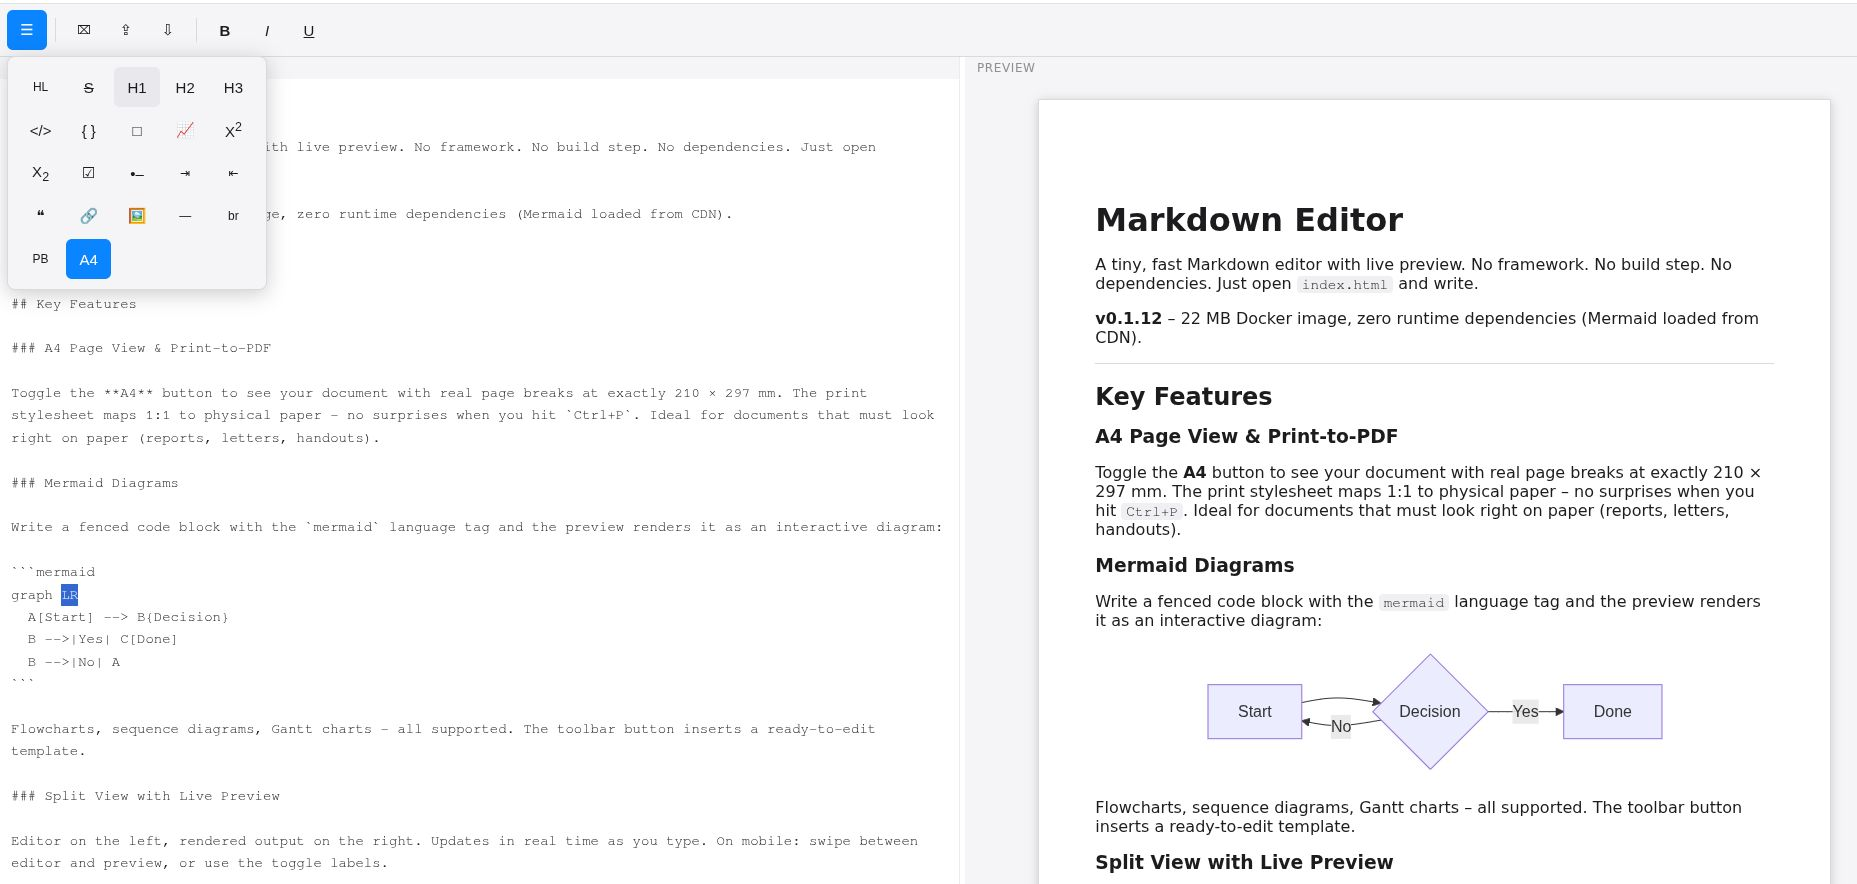
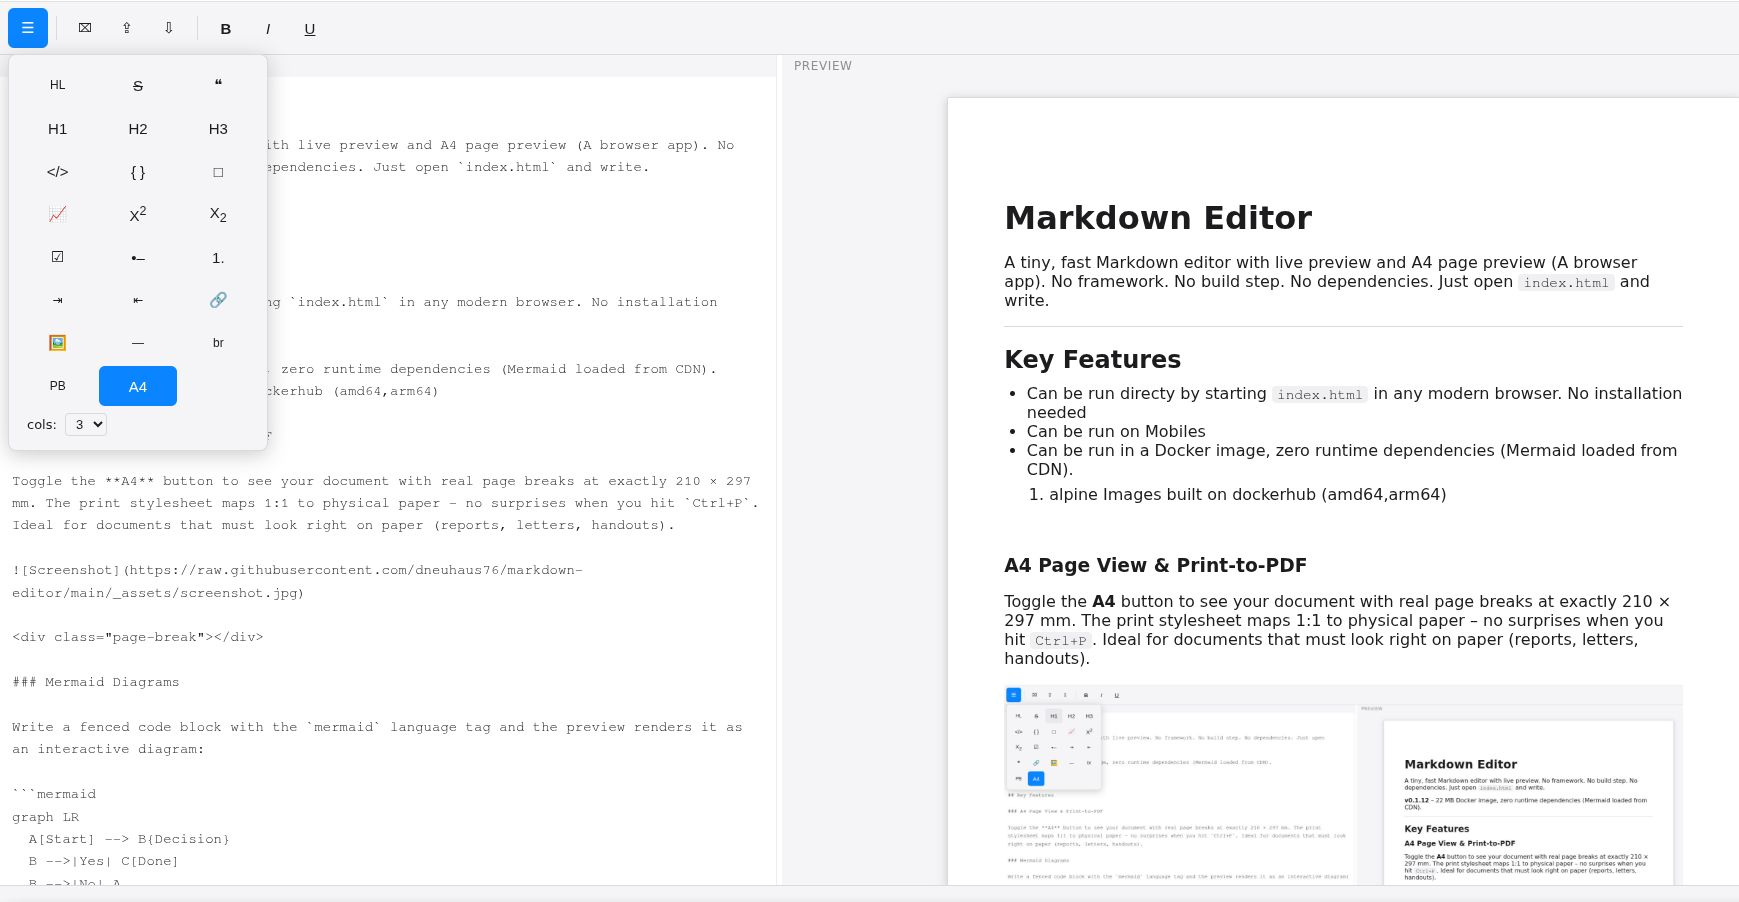
feat: add ol button + configurable toolbar columns, bump to 0.1.14

diff --git a/index.html b/index.html
@@ -24,26 +24,37 @@
   <div class="toolbar-panel" id="toolbar-panel" hidden>
     <button data-action="highlight" title="Highlight (==text==)" style="font-size:12px;">HL</button>
     <button data-action="strike" title="Strikethrough"><s>S</s></button>
+    <button data-action="quote" title="Quote">&#10077;</button>
     <button data-action="h1" title="Heading 1">H1</button>
     <button data-action="h2" title="Heading 2">H2</button>
     <button data-action="h3" title="Heading 3">H3</button>
     <button data-action="code" title="Inline code">&lt;/&gt;</button>
     <button data-action="codeblock" title="Code block">{ }</button>
-    <button data-action="table" title="Table">&#9633;</button>
-    <button data-action="mermaid" title="Mermaid diagram">&#128200;</button>
+    <button data-action="table" title="Table (template)">&#9633;</button>
+    <button data-action="mermaid" title="Mermaid diagram (template)">&#128200;</button>
     <button data-action="sup" title="Superscript (X^2^)">X<sup>2</sup></button>
     <button data-action="sub" title="Subscript (H~2~O)">X<sub>2</sub></button>
     <button data-action="task" title="Task list (- [ ] task)">&#9745;</button>
-    <button data-action="ul" title="List">&#8226;&ndash;</button>
+    <button data-action="ul" title="List (ul)">&#8226;&ndash;</button>
+    <button data-action="ol" title="List (ol)">1.</button>
     <button data-action="indent" title="Indent" style="font-size:12px;">&#8677;</button>
     <button data-action="outdent" title="Outdent" style="font-size:12px;">&#8676;</button>
-    <button data-action="quote" title="Quote">&#10077;</button>
     <button data-action="link" title="Link [text](url)">&#128279;</button>
     <button data-action="image" title="Image ![alt](url)">&#128444;</button>
     <button data-action="hr" title="Horizontal rule (---)" style="font-size:12px;">&#8212;</button>
     <button data-action="br" title="Line break (br)" style="font-size:12px;">br</button>
     <button data-action="pagebreak" title="Page break (new page when printing)" style="font-size:12px;">PB</button>
     <button id="btn-a4" title="A4 page view (show page end)">A4</button>
+    <label class="cols-config">
+      <span>cols:</span>
+      <select id="cols-select">
+        <option value="3">3</option>
+        <option value="4">4</option>
+        <option value="5" selected>5</option>
+        <option value="6">6</option>
+        <option value="7">7</option>
+      </select>
+    </label>
   </div>
   </header>
 

diff --git a/js/ui.js b/js/ui.js
@@ -71,6 +71,7 @@
       h2:        () => prefixLines('## '),
       h3:        () => prefixLines('### '),
       ul:        () => prefixLines('- '),
+      ol:        () => prefixLines('1. '),
       indent:    () => indentLines(1),
       outdent:   () => indentLines(-1),
       quote:     () => prefixLines('> '),
@@ -114,6 +115,24 @@
       if (fn) fn();
       closePanel();
     });
+
+    // ---------- Column count config ----------
+    const colsSelect = document.getElementById('cols-select');
+    function setCols(n) {
+      n = Math.min(7, Math.max(3, parseInt(n, 10) || 5));
+      toolbarPanel.style.setProperty('--cols', String(n));
+      try { localStorage.setItem(MDConfig.COLS_KEY, String(n)); } catch (e) { /* non-fatal */ }
+    }
+    colsSelect.addEventListener('change', () => setCols(colsSelect.value));
+    try {
+      const saved = parseInt(localStorage.getItem(MDConfig.COLS_KEY), 10);
+      if (saved >= 3 && saved <= 7) {
+        colsSelect.value = String(saved);
+        setCols(saved);
+      } else {
+        setCols(5);
+      }
+    } catch (e) { setCols(5); }
 
     btnBurger.addEventListener('click', () => {
       const open = toolbarPanel.hidden;
@@ -262,7 +281,7 @@
       const text = editor.value;
       const t = text.trim();
       const words = t ? t.split(/\s+/).length : 0;
-      statusBar.textContent = words + ' Wörter · ' + text.length + ' Zeichen';
+      statusBar.textContent = words + ' Words · ' + text.length + ' Characters';
     }
 
     // Expose to ctx.

diff --git a/css/style.css b/css/style.css
@@ -66,7 +66,7 @@ body {
   left: 8px;
   z-index: 20;
   display: grid;
-  grid-template-columns: repeat(5, minmax(40px, 1fr));
+  grid-template-columns: repeat(var(--cols, 5), minmax(40px, 1fr));
   gap: 3px;
   padding: 10px;
   background: var(--bg-alt);
@@ -89,6 +89,23 @@ body {
   cursor: pointer;
 }
 .toolbar-panel button:hover { background: var(--btn-hover); }
+.cols-config {
+  grid-column: 1 / -1;
+  display: flex;
+  align-items: center;
+  gap: 8px;
+  padding: 4px 8px;
+  font-size: 13px;
+  color: var(--fg);
+}
+.cols-config select {
+  background: var(--bg-alt);
+  color: var(--fg);
+  border: 1px solid var(--border);
+  border-radius: 4px;
+  padding: 2px 6px;
+  font-size: 13px;
+}
 
 /* ---------- Panes ---------- */
 .panes {

diff --git a/js/config.js b/js/config.js
@@ -6,6 +6,7 @@
   window.MDConfig = Object.freeze({
     STORAGE_KEY: 'md-editor-content',
     SPLIT_KEY: 'md-editor-split',
+    COLS_KEY: 'md-editor-cols',
     RENDER_DEBOUNCE_MS: 150,
     SAVE_DEBOUNCE_MS: 500,
     UNDO_LIMIT: 100,

diff --git a/README.md b/README.md
@@ -1,13 +1,16 @@
 # Markdown Editor
 
-A tiny, fast Markdown editor with live preview (A browser app). No framework. No build step. No dependencies. Just open `index.html` and write.
-
-Can be run in a ~ 22 MB Docker image, zero runtime dependencies (Mermaid loaded from CDN).
+A tiny, fast Markdown editor with live preview and A4 page preview (A browser app). No framework. No build step. No dependencies. Just open `index.html` and write.
 
 ---
 
 ## Key Features
 
+* Can be run directy by starting `index.html` in any modern browser. No installation needed
+* Can be run on Mobiles
+- Can be run in a Docker image, zero runtime dependencies (Mermaid loaded from CDN).
+  - alpine Images built on dockerhub (amd64,arm64)
+<br>
 ### A4 Page View & Print-to-PDF
 
 Toggle the **A4** button to see your document with real page breaks at exactly 210 × 297 mm. The print stylesheet maps 1:1 to physical paper – no surprises when you hit `Ctrl+P`. Ideal for documents that must look right on paper (reports, letters, handouts).
@@ -83,7 +86,11 @@ Follows `prefers-color-scheme`. No toggle needed – it just works.
 
 ## Start
 
-### Linux (no Docker)
+### no Docker
+
+Simply open `index.html` in any modern browser.
+
+Or
 
 ```bash
 cd markdown-editor
@@ -91,17 +98,18 @@ python3 -m http.server 8080
 # → http://localhost:8080
 ```
 
-Or simply open `index.html` in any modern browser.
+### Docker (Images on dockerhub)
 
-### Docker (nginx on Alpine, ~22 MB)
+Simply download from dockerhub und start:
+`docker run -d -p 8080:80 --name markdown-editor dneuhaus76/markdown-editor`
+
+Or (build your own)
 
 ```bash
-docker build -t markdown-editor:0.1.12 .
-docker run -d --name markdown-editor --restart unless-stopped -p 8080:80 markdown-editor:0.1.12
+docker build -t markdown-editor:0.x .
+docker run -d --name markdown-editor --restart unless-stopped -p 8080:80 markdown-editor:0.x
 # → http://localhost:8080 (gzip, cache headers, health check)
 ```
-
-Or: `docker compose up -d`
 
 ---
 
@@ -112,9 +120,9 @@ index.html       Layout + toolbar
 css/style.css    Styles, responsive, dark mode, A4 print, status bar
 js/markdown.js   Mini Markdown parser (testable via node)
 js/app.js        State, toolbar, autosave, import/export, images, search, Mermaid
-tests/           Parser unit tests (node --test)
-Dockerfile       nginx on Alpine
-docker-compose.yml
+tests/           Parser unit tests (not needed by application)
+Dockerfile       nginx on Alpine (not needed by application)
+docker-compose.yml (not needed by application)
 ```
 
 ---
